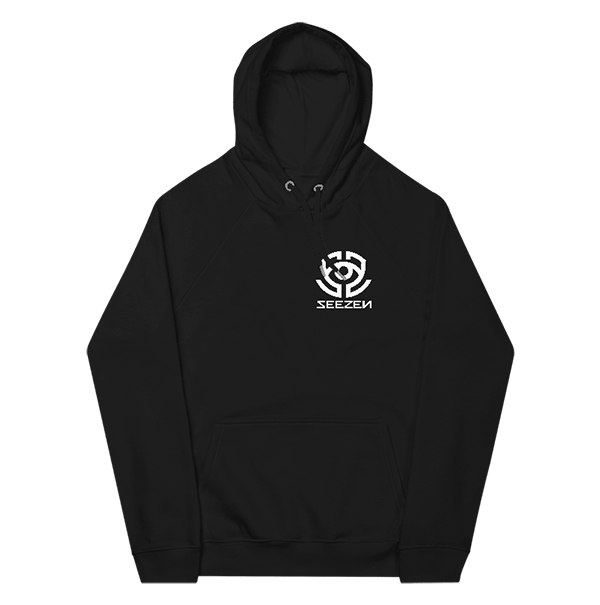
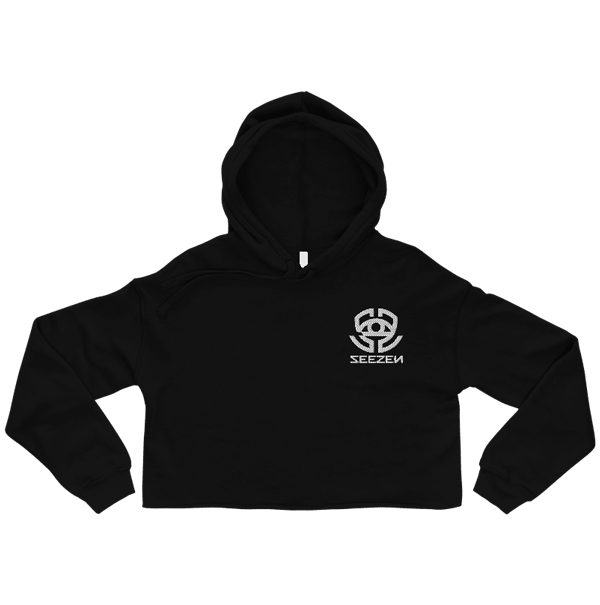
Updated

diff --git a/index.html b/index.html
@@ -308,7 +308,7 @@
                         </div>
                         <div class="album-info">
                             <a href="https://jeebeofficial.com/">
-                                <h3>Seezen Official Logo Sweatshirt</h3>
+                                <h3>Seezen Women's Cropped Hoodie - Black</h3>
                             </a>
                             <p>Made from high-quality materials. Fulfillment is handled by The Urban Blvd (theurbanblvd.com)</p>
                         </div>
@@ -319,11 +319,11 @@
                 <div class="col-12 col-sm-6 col-md-4 col-lg-2">
                     <div class="single-album-area wow fadeInUp" data-wow-delay="200ms">
                         <div class="album-thumb">
-                            <a href="https://shop.theurbanblvd.com"><img src="img/bg-img/m3.jpg" alt="The Urban Blvd Corporation"></a>
+                            <a href="https://shop.theurbanblvd.com"><img src="img/bg-img/m2.jpg" alt="The Urban Blvd Corporation"></a>
                         </div>
                         <div class="album-info">
                             <a href="#">
-                                <h3>Embroidered Champion Packable Jacket</h3>
+                                <h3>Seezen Unisex Classic Tee - Navy</h3>
                             </a>
                             <p>Made from high-quality materials. Fulfillment is handled by The Urban Blvd (theurbanblvd.com)</p>
                         </div>
@@ -334,11 +334,11 @@
                 <div class="col-12 col-sm-6 col-md-4 col-lg-2">
                     <div class="single-album-area wow fadeInUp" data-wow-delay="300ms">
                         <div class="album-thumb">
-                            <a href="https://shop.theurbanblvd.com"><img src="img/bg-img/m2.jpg" alt="The Urban Blvd Corporation"></a>
+                            <a href="https://shop.theurbanblvd.com"><img src="img/bg-img/m3.jpg" alt="The Urban Blvd Corporation"></a>
                         </div>
                         <div class="album-info">
                             <a href="#">
-                                <h3>Dad Cap Logo</h3>
+                                <h3>Seezen Unisex Classic Tee - Black</h3>
                             </a>
                             <p>Made from high-quality materials. Fulfillment is handled by The Urban Blvd (theurbanblvd.com)</p>
                         </div>
@@ -353,7 +353,7 @@
                         </div>
                         <div class="album-info">
                             <a href="#">
-                                <h3>Logo Beanie</h3>
+                                <h3>Seezen Pom-Pom Knit Cap (Dark Heather Grey / Red)</h3>
                             </a>
                             <p>Made from high-quality materials. Fulfillment is handled by The Urban Blvd (theurbanblvd.com)</p>
                         </div>
@@ -364,11 +364,11 @@
                 <div class="col-12 col-sm-6 col-md-4 col-lg-2">
                     <div class="single-album-area wow fadeInUp" data-wow-delay="500ms">
                         <div class="album-thumb">
-                            <a href="https://shop.theurbanblvd.com"><img src="img/bg-img/m1.jpg" alt="The Urban Blvd Corporation"></a>
+                            <a href="https://shop.theurbanblvd.com"><img src="img/bg-img/m5.jpg" alt="The Urban Blvd Corporation"></a>
                         </div>
                         <div class="album-info">
                             <a href="#">
-                                <h3>Garage Band</h3>
+                                <h3>Seezen Pom-Pom Knit Cap (Dark Heather Grey / Black)</h3>
                             </a>
                             <p>Made from high-quality materials. Fulfillment is handled by The Urban Blvd (theurbanblvd.com)</p>
                         </div>
@@ -379,11 +379,11 @@
                 <div class="col-12 col-sm-6 col-md-4 col-lg-2">
                     <div class="single-album-area wow fadeInUp" data-wow-delay="600ms">
                         <div class="album-thumb">
-                            <a href="https://shop.theurbanblvd.com"><img src="img/bg-img/m2.jpg" alt="The Urban Blvd Corporation"></a>
+                            <a href="https://shop.theurbanblvd.com"><img src="img/bg-img/m6.jpg" alt="The Urban Blvd Corporation"></a>
                         </div>
                         <div class="album-info">
                             <a href="#">
-                                <h3>Noises</h3>
+                                <h3>Seezen Pom-Pom Knit Cap (Black)</h3>
                             </a>
                             <p>Made from high-quality materials. Fulfillment is handled by The Urban Blvd (theurbanblvd.com)</p>
                         </div>
@@ -394,11 +394,11 @@
                 <div class="col-12 col-sm-6 col-md-4 col-lg-2">
                     <div class="single-album-area wow fadeInUp" data-wow-delay="100ms">
                         <div class="album-thumb">
-                            <a href="https://shop.theurbanblvd.com"><img src="img/bg-img/m3.jpg" alt="The Urban Blvd Corporation"></a>
+                            <a href="https://shop.theurbanblvd.com"><img src="img/bg-img/m7.jpg" alt="The Urban Blvd Corporation"></a>
                         </div>
                         <div class="album-info">
                             <a href="#">
-                                <h3>Jess Parker</h3>
+                                <h3>Seezen Embroidered Champion Packable Jacket - Gold</h3>
                             </a>
                             <p>Made from high-quality materials. Fulfillment is handled by The Urban Blvd (theurbanblvd.com)</p>
                         </div>
@@ -409,11 +409,11 @@
                 <div class="col-12 col-sm-6 col-md-4 col-lg-2">
                     <div class="single-album-area wow fadeInUp" data-wow-delay="200ms">
                         <div class="album-thumb">
-                            <a href="https://shop.theurbanblvd.com"><img src="img/bg-img/m4.jpg" alt="The Urban Blvd Corporation"></a>
+                            <a href="https://shop.theurbanblvd.com"><img src="img/bg-img/m8.jpg" alt="The Urban Blvd Corporation"></a>
                         </div>
                         <div class="album-info">
                             <a href="#">
-                                <h3>Noises</h3>
+                                <h3>Seezen Embroidered Champion Packable Jacket - Black</h3>
                             </a>
                             <p>Made from high-quality materials. Fulfillment is handled by The Urban Blvd (theurbanblvd.com)</p>
                         </div>
@@ -424,11 +424,11 @@
                 <div class="col-12 col-sm-6 col-md-4 col-lg-2">
                     <div class="single-album-area wow fadeInUp" data-wow-delay="300ms">
                         <div class="album-thumb">
-                            <a href="https://shop.theurbanblvd.com"><img src="img/bg-img/m2.jpg" alt="The Urban Blvd Corporation"></a>
+                            <a href="https://shop.theurbanblvd.com"><img src="img/bg-img/m9.jpg" alt="The Urban Blvd Corporation"></a>
                         </div>
                         <div class="album-info">
                             <a href="#">
-                                <h3>Garage Band</h3>
+                                <h3>Seezen Champion Backpack</h3>
                             </a>
                             <p>Made from high-quality materials. Fulfillment is handled by The Urban Blvd (theurbanblvd.com)</p>
                         </div>
@@ -439,11 +439,11 @@
                 <div class="col-12 col-sm-6 col-md-4 col-lg-2">
                     <div class="single-album-area wow fadeInUp" data-wow-delay="400ms">
                         <div class="album-thumb">
-                            <a href="https://shop.theurbanblvd.com"><img src="img/bg-img/m1.jpg" alt="The Urban Blvd Corporation"></a>
+                            <a href="https://shop.theurbanblvd.com"><img src="img/bg-img/m10.jpg" alt="The Urban Blvd Corporation"></a>
                         </div>
                         <div class="album-info">
                             <a href="#">
-                                <h3>Noises</h3>
+                                <h3>Seezen Bucket Hat - White</h3>
                             </a>
                             <p>Made from high-quality materials. Fulfillment is handled by The Urban Blvd (theurbanblvd.com)</p>
                         </div>
@@ -454,11 +454,11 @@
                 <div class="col-12 col-sm-6 col-md-4 col-lg-2">
                     <div class="single-album-area wow fadeInUp" data-wow-delay="500ms">
                         <div class="album-thumb">
-                            <a href="https://shop.theurbanblvd.com"><img src="img/bg-img/m3.jpg" alt="The Urban Blvd Corporation"></a>
+                            <a href="https://shop.theurbanblvd.com"><img src="img/bg-img/m11.jpg" alt="The Urban Blvd Corporation"></a>
                         </div>
                         <div class="album-info">
                             <a href="#">
-                                <h3>Jess Parker</h3>
+                                <h3>Seezen Women's Cropped Hoodie - Black</h3>
                             </a>
                             <p>Made from high-quality materials. Fulfillment is handled by The Urban Blvd (theurbanblvd.com)</p>
                         </div>
@@ -469,11 +469,11 @@
                 <div class="col-12 col-sm-6 col-md-4 col-lg-2">
                     <div class="single-album-area wow fadeInUp" data-wow-delay="600ms">
                         <div class="album-thumb">
-                            <a href="https://shop.theurbanblvd.com"><img src="img/bg-img/m4.jpg" alt="The Urban Blvd Corporation"></a>
+                            <a href="https://shop.theurbanblvd.com"><img src="img/bg-img/m12.jpg" alt="The Urban Blvd Corporation"></a>
                         </div>
                         <div class="album-info">
                             <a href="#">
-                                <h3>Noises</h3>
+                                <h3>Seezen Bucket Hat - Black</h3>
                             </a>
                             <p>Made from high-quality materials. Fulfillment is handled by The Urban Blvd (theurbanblvd.com)</p>
                         </div>
